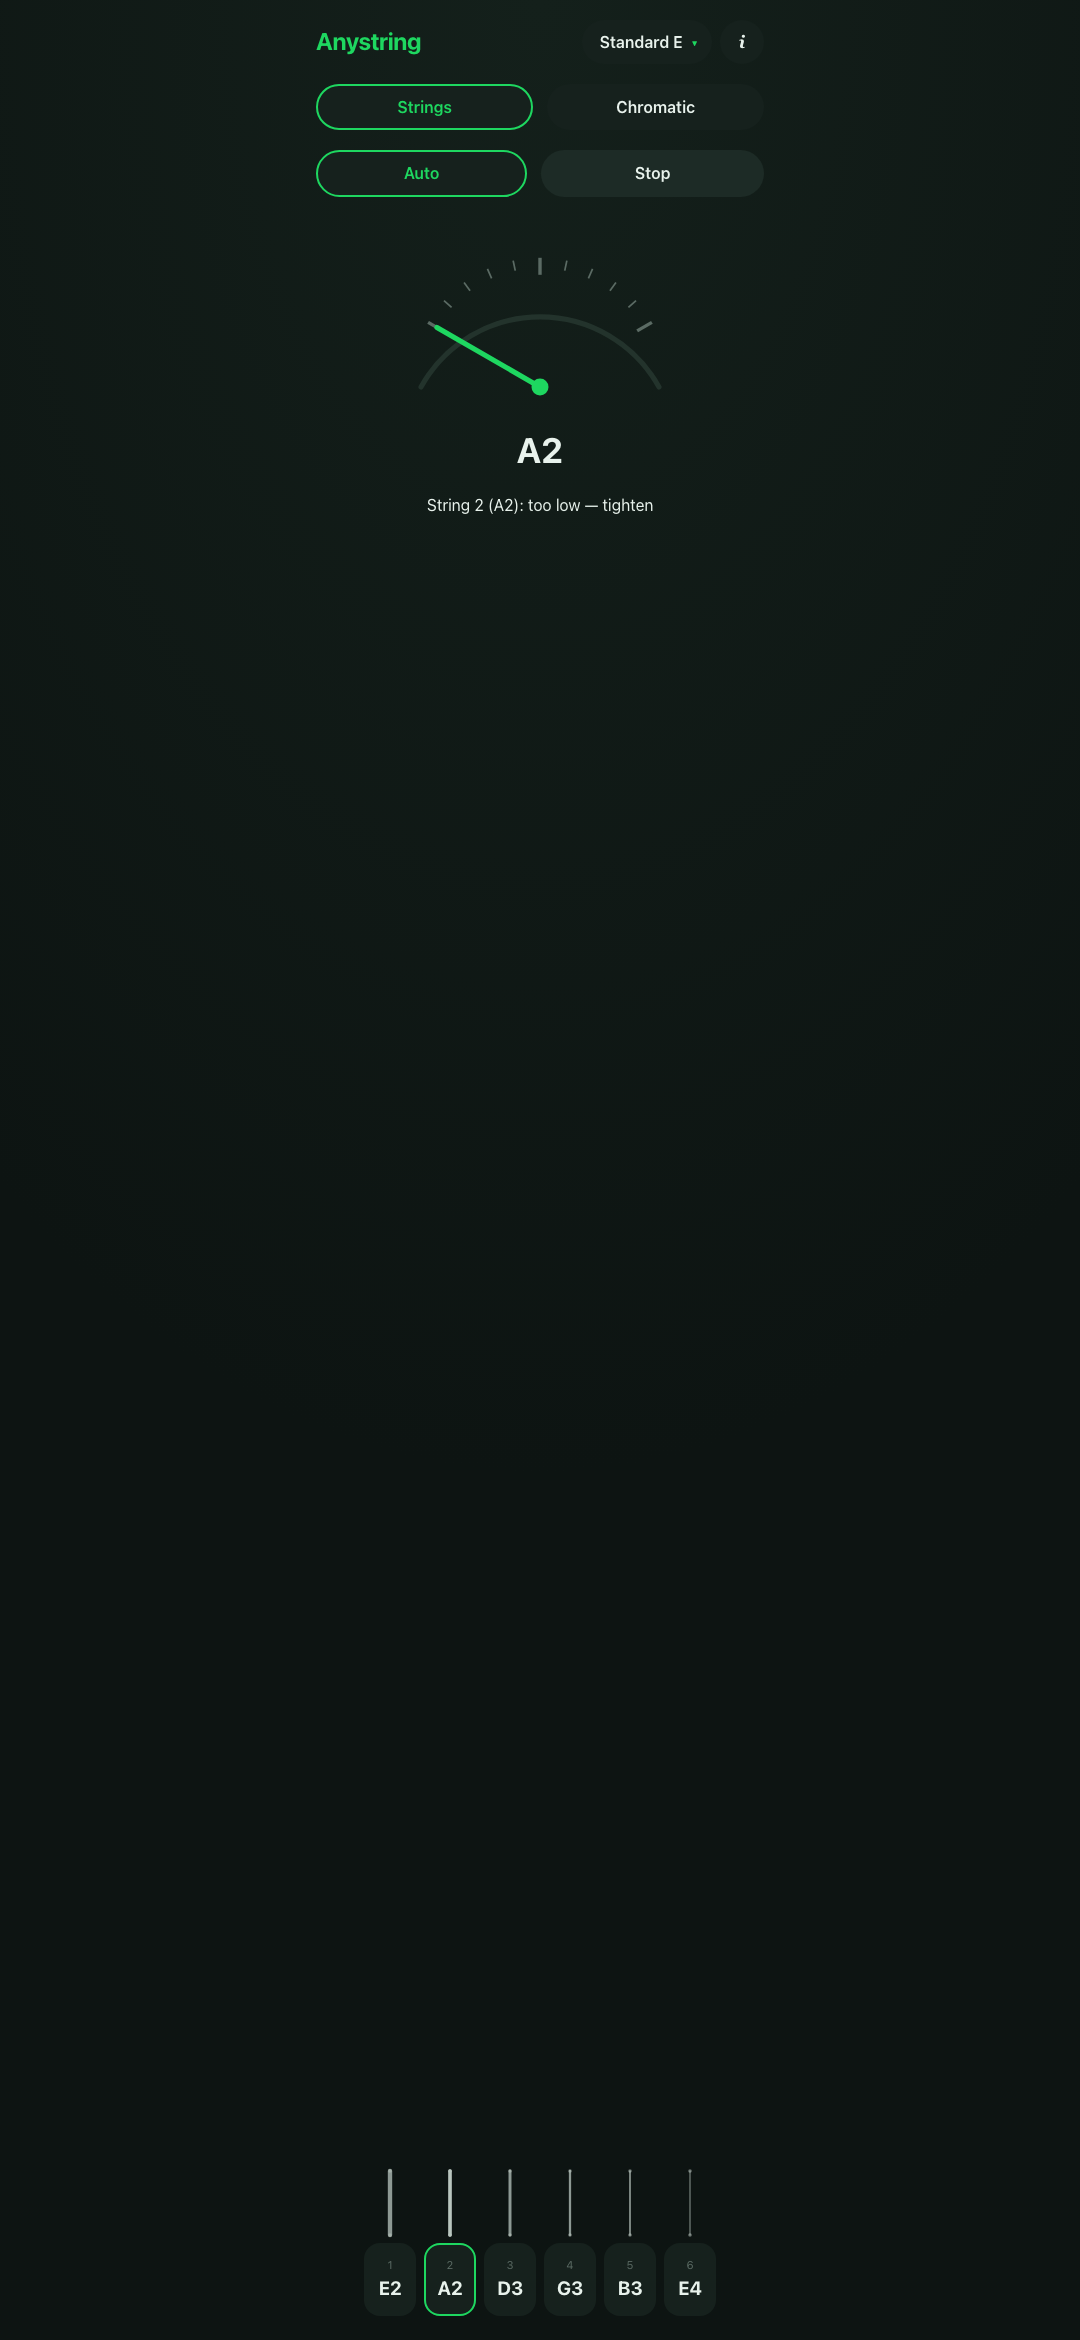
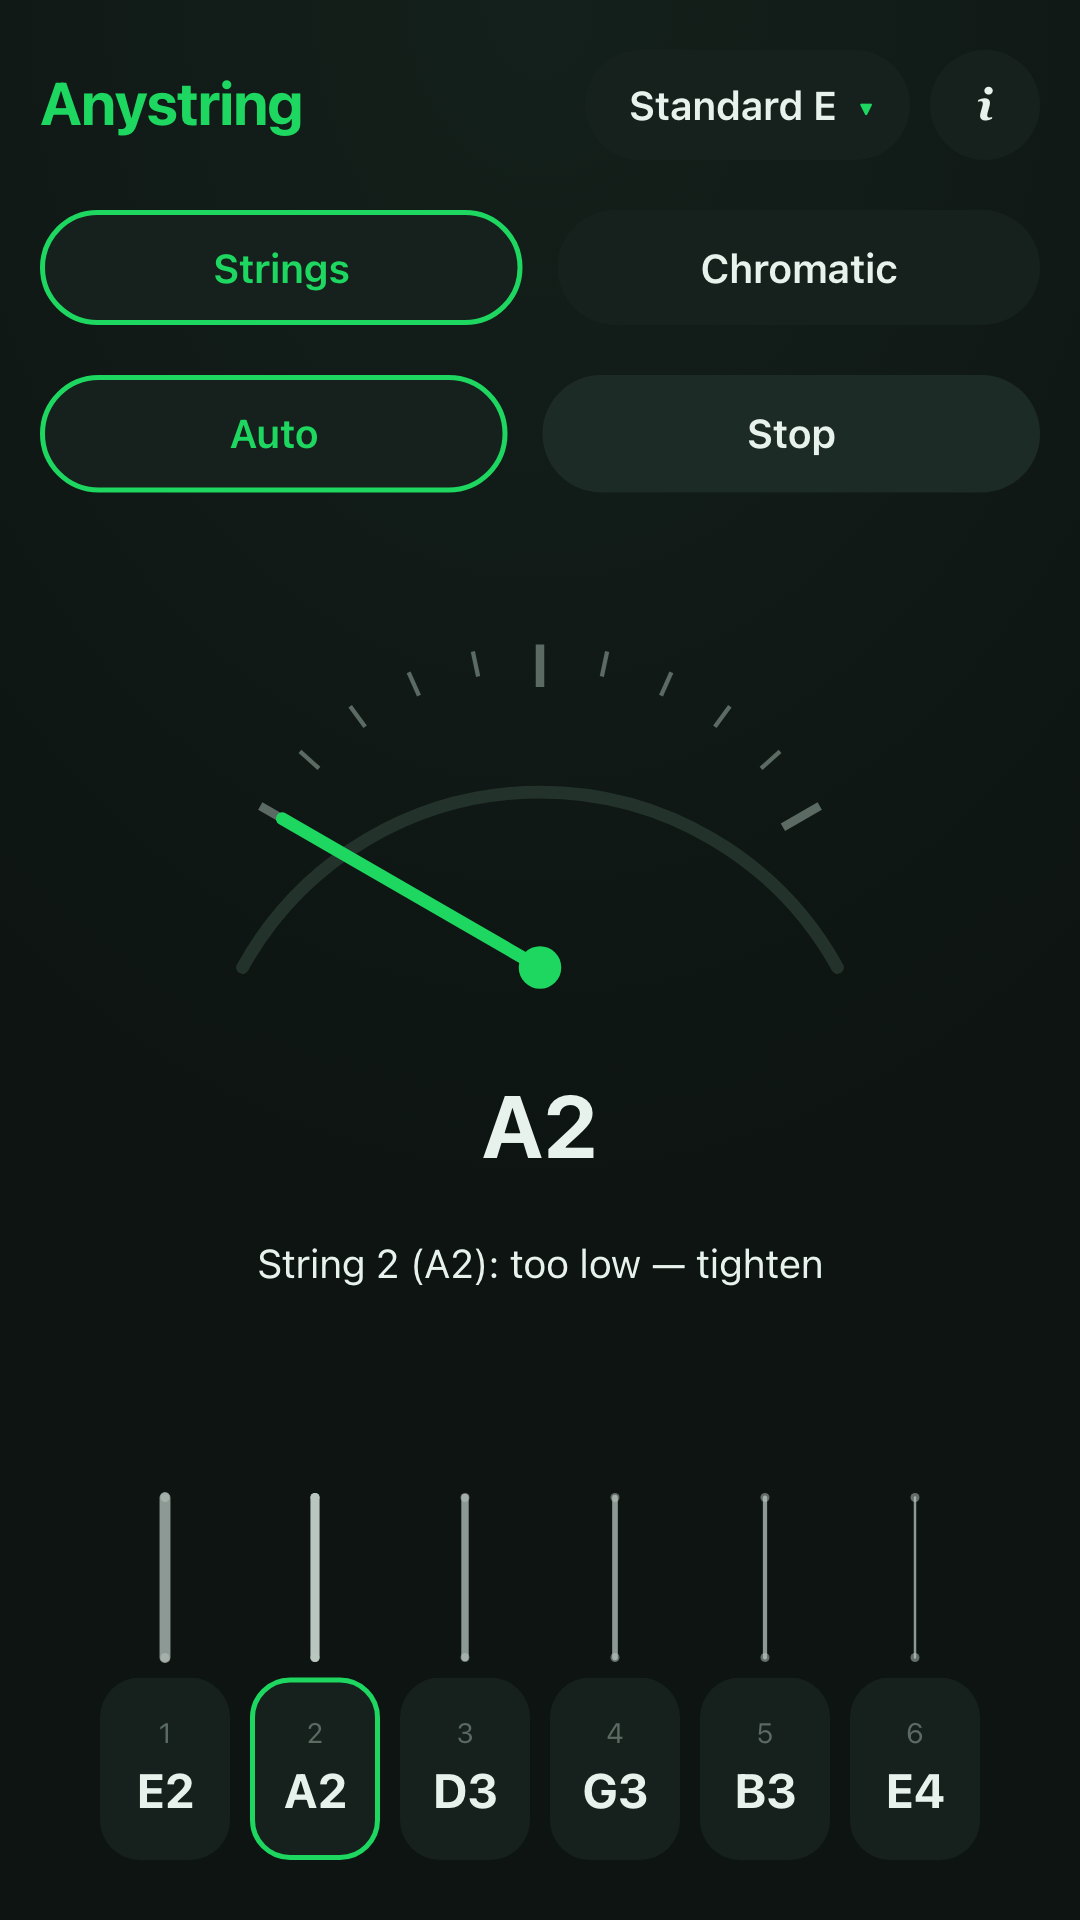
Fix store screenshot framing and opaque sheet backdrops.
Use a phone CSS viewport for Android 1080×1920 so the app fills the frame, wait before capture, and black out sheet overlays so the tuner UI does not bleed through.

diff --git a/e2e/store/screenshots.spec.ts b/e2e/store/screenshots.spec.ts
@@ -6,17 +6,34 @@ import { APP_URL, setTestTone, stubMicrophone } from '../helpers'
 const A2_HZ = 110
 const A2_FLAT_HZ = 106
 const OUT_ROOT = path.join(process.cwd(), 'store', 'screenshots')
+/** Let layout / sheet animation settle before capturing. */
+const SETTLE_MS = 900
 
 function platformDir(): 'ios' | 'android' {
   const name = test.info().project.name
   return name.startsWith('ios') ? 'ios' : 'android'
 }
 
+/** Opaque sheet backdrop so the tuner UI does not bleed through store shots. */
+async function opaqueSheetBackdrop(page: Page): Promise<void> {
+  await page.addStyleTag({
+    content: '.overlay { background: rgb(0 0 0) !important; }',
+  })
+}
+
+async function settle(): Promise<void> {
+  await new Promise<void>((resolve) => {
+    setTimeout(resolve, SETTLE_MS)
+  })
+}
+
 async function shot(page: Page, basename: string): Promise<void> {
+  await settle()
   const dir = path.join(OUT_ROOT, platformDir())
   await page.screenshot({
     path: path.join(dir, `${basename}.png`),
     fullPage: false,
+    animations: 'disabled',
   })
 }
 
@@ -61,6 +78,7 @@ test.describe('store screenshots', () => {
     await expect(
       page.getByRole('heading', { name: 'Tunings', exact: true }),
     ).toBeVisible()
+    await opaqueSheetBackdrop(page)
     await shot(page, '05-presets')
   })
 
@@ -70,6 +88,7 @@ test.describe('store screenshots', () => {
     await stringButton.click()
     await stringButton.click()
     await expect(page.getByRole('heading', { name: 'Choose note' })).toBeVisible()
+    await opaqueSheetBackdrop(page)
     await shot(page, '06-note-picker')
   })
 

diff --git a/playwright.store.config.ts b/playwright.store.config.ts
@@ -3,6 +3,10 @@ import { defineConfig } from '@playwright/test'
 /**
  * Store listing screenshots at App Store / Play Console phone sizes.
  * Run: npm run screenshots:store
+ *
+ * Android: phone CSS width (not 1080 CSS px — that left empty margins beside the
+ * 480px-capped app). Height is exactly 9:16 so Play gets 1080×1920 without the
+ * ultra-tall crop: 432×768 @2.5 → exact 1080×1920.
  */
 export default defineConfig({
   testDir: 'e2e/store',
@@ -31,8 +35,8 @@ export default defineConfig({
     {
       name: 'android-phone',
       use: {
-        viewport: { width: 1080, height: 2340 },
-        deviceScaleFactor: 1,
+        viewport: { width: 432, height: 768 },
+        deviceScaleFactor: 2.5,
         isMobile: true,
         hasTouch: true,
         launchOptions: {

diff --git a/store/screenshots/README.md b/store/screenshots/README.md
@@ -2,10 +2,10 @@
 
 Phone listing assets for App Store Connect and Google Play.
 
-| Folder     | Logical size     | Notes                             |
-| ---------- | ---------------- | --------------------------------- |
-| `ios/`     | 1290×2796 (6.7") | Playwright viewport 430×932 @3x   |
-| `android/` | 1080×2340        | Playwright viewport 1080×2340 @1x |
+| Folder     | Logical size     | Notes                            |
+| ---------- | ---------------- | -------------------------------- |
+| `ios/`     | 1290×2796 (6.7") | Playwright viewport 430×932 @3x  |
+| `android/` | 1080×1920 (9:16) | Playwright viewport 432×768 @2.5 |
 
 Regenerate:
 

diff --git a/docs/knowledge/areas/testing.md b/docs/knowledge/areas/testing.md
@@ -28,7 +28,7 @@ Commands:
 - Local full: `npm run test:e2e` (`testIgnore: **/store/**`)
 - Live smoke: `npm run test:e2e:live` (or `PLAYWRIGHT_BASE_URL=...`)
 - Store screenshots: `npm run screenshots:store` → `store/screenshots/{ios,android}/`
-  (`playwright.store.config.ts`: iPhone 6.7" 430×932@3x, Android 1080×2340)
+  (`playwright.store.config.ts`: iPhone 6.7" 430×932@3x, Android 432×768@2.5 → 1080×1920)
 
 ## Native E2E (Maestro)
 
